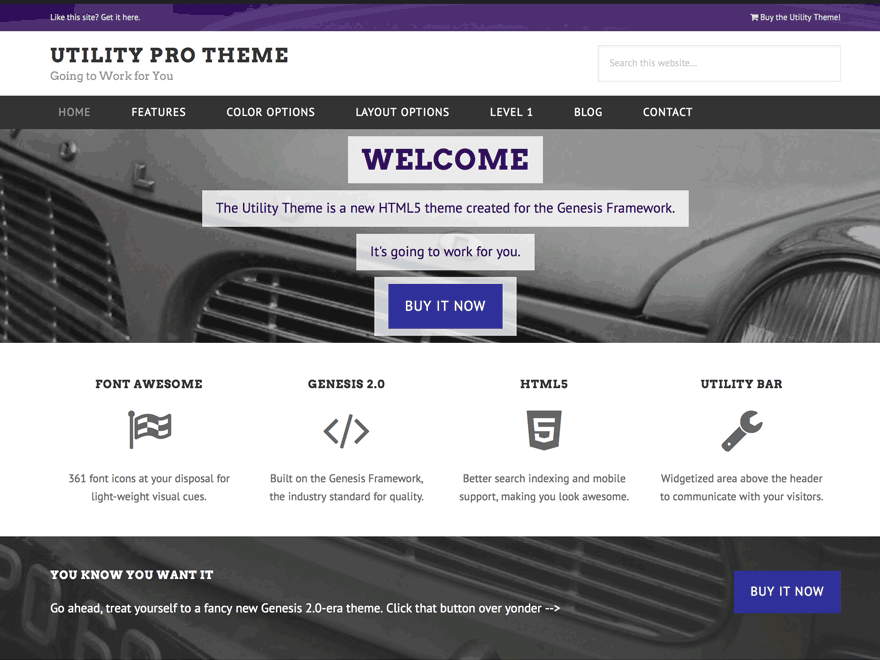
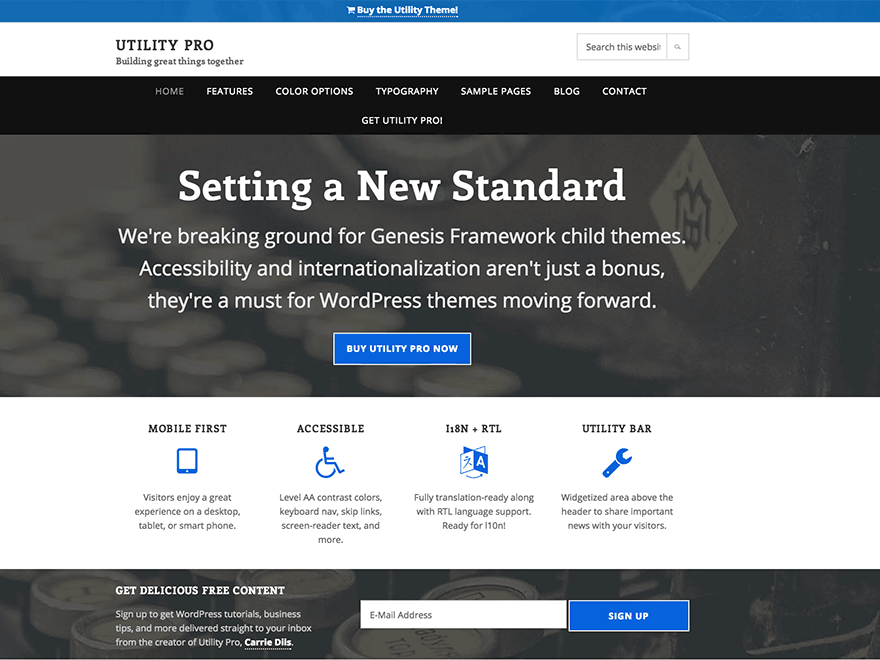
Fixed skip-link double ID issue. Style sheet cleanup. New screenshot

diff --git a/style-rtl.css b/style-rtl.css
@@ -323,11 +323,11 @@ blockquote::before {
     content: '\201C';
     display: block;
     font-family: 'Enriqueta', serif;
-    font-size: 140px;
+    font-size: 120px;
     height: 0;
-    right: -50px;
+    right: -55px;
     position: relative;
-    top: -60px;
+    top: -55px;
 }
 
 pre {
@@ -478,6 +478,19 @@ input[type='search']::-webkit-search-results-button {
 }
 
 .search-form input[type='submit'] {
+    background-color: transparent;
+    background: url("images/icon-search.png") no-repeat 14px 20px #fff;
+    border: 1px solid #ddd;
+    box-shadow: none;
+    height: 53px;
+    margin: 0;
+    overflow: hidden;
+    padding: 0 0 0 42px;
+    position: absolute;
+    left: 0;
+    text-indent: -9999px;
+    vertical-align: top;
+    width: 45px;
     -webkit-transition: none;
        -moz-transition: none;
         -ms-transition: none;
@@ -485,33 +498,11 @@ input[type='search']::-webkit-search-results-button {
             transition: none;
 }
 
-.search-form input[type='submit'] {
-    background-color: transparent;
-    background: url("images/icon-search.png") no-repeat 14px 20px #fff;
-    border: 1px solid #ddd;
-    height: 53px;
-    margin: 0;
-    overflow: hidden;
-    padding: 0;
-    position: absolute;
-    left: 0;
-    text-indent: -9999px;
-    vertical-align: top;
-    width: 45px;
-}
-
 .search-form input[type="submit"]:focus,
 .search-form input[type="submit"]:hover {
     background-color: #999;
 	background-position: 1px 20px;
 	text-indent: -9999px;
-}
-
-.search-form input[type="search"] {
-   	box-shadow: none;
-    height: 53px;
-    margin-bottom: 0;
-    padding-left: 55px;
 }
 
 /* Gallery
@@ -984,13 +975,13 @@ Plugins
 /* Better Font Awesome
 --------------------------------------------- */
 
-/*a > .fa {
+a > .fa {
     display: block;
 }
 
-.li a > .fa {
+li a .fa {
     display: inline-block;
-}*/
+}
 
 /* Genesis eNews Extended
 --------------------------------------------- */

diff --git a/style.css b/style.css
@@ -478,6 +478,19 @@ input[type='search']::-webkit-search-results-button {
 }
 
 .search-form input[type='submit'] {
+    background-color: transparent;
+    background: url("images/icon-search.png") no-repeat 14px 20px #fff;
+    border: 1px solid #ddd;
+    box-shadow: none;
+    height: 53px;
+    margin: 0;
+    overflow: hidden;
+    padding: 0 42px 0 0;
+    position: absolute;
+    right: 0;
+    text-indent: -9999px;
+    vertical-align: top;
+    width: 45px;
     -webkit-transition: none;
        -moz-transition: none;
         -ms-transition: none;
@@ -485,33 +498,11 @@ input[type='search']::-webkit-search-results-button {
             transition: none;
 }
 
-.search-form input[type='submit'] {
-    background-color: transparent;
-    background: url("images/icon-search.png") no-repeat 14px 20px #fff;
-    border: 1px solid #ddd;
-    height: 53px;
-    margin: 0;
-    overflow: hidden;
-    padding: 0;
-    position: absolute;
-    right: 0;
-    text-indent: -9999px;
-    vertical-align: top;
-    width: 45px;
-}
-
 .search-form input[type="submit"]:focus,
 .search-form input[type="submit"]:hover {
     background-color: #999;
 	background-position: 1px 20px;
 	text-indent: -9999px;
-}
-
-.search-form input[type="search"] {
-   	box-shadow: none;
-    height: 53px;
-    margin-bottom: 0;
-    padding-right: 55px;
 }
 
 /* Gallery

diff --git a/includes/vendors/genesis-accessible/skip-links.php b/includes/vendors/genesis-accessible/skip-links.php
@@ -6,14 +6,14 @@
 *	License: GPLv2 or later
 */
 
-add_action ( 'genesis_before_header', 'utility_skip_links', 5 );
+add_action ( 'genesis_before_header', 'utility_pro_skip_links', 5 );
 /**
  * Add skiplinks for screen readers and keyboard navigation
  *
  * @return [type] [description]
  * @since  1.0.0
  */
-function utility_skip_links() {
+function utility_pro_skip_links() {
 
     $site_layout = genesis_site_layout();
 
@@ -22,7 +22,6 @@ function utility_skip_links() {
 	$nav2 = false;
     $sidebar = false;
     $sidebar_alt = false;
-	$search = false;
 	$footer_widget = false;
 
    	//  navigation?
@@ -33,7 +32,6 @@ function utility_skip_links() {
     if ( $site_layout == 'sidebar-content' || $site_layout == 'content-sidebar' )  $sidebar = true;
 
 	// search widget?
-	if( is_active_widget( '', '', 'search' ) ) $search = true;
 
     // footer widgets?
     if ( current_theme_supports( 'genesis-footer-widgets' ) == '1' ) {
@@ -54,20 +52,17 @@ function utility_skip_links() {
 	echo '<ul class="wpacc-genesis-skip-link">' . "\n";
 
     if ( $nav )
-    	echo '  <li><a href="#wpacc-genesis-nav" class="screen-reader-shortcut">'. __( 'Jump to main navigation', 'utility-pro' ) .'</a></li>' . "\n";
-
-	if ( $search )
-		echo '  <li><a href="#searchform" class="screen-reader-shortcut">'. __( 'Jump to search', 'utility-pro' ) .'</a></li>' . "\n";
+    	echo '  <li><a href="#genwpacc-genesis-nav" class="screen-reader-shortcut">'. __( 'Jump to main navigation', 'utility-pro' ) .'</a></li>' . "\n";
 
 	if ( $nav2 )
-		echo '  <li><a href="#wpacc-genesis-nav" class="screen-reader-shortcut">'. __( 'Jump to sub navigation', 'utility-pro' ) .'</a></li>' . "\n";
-		echo '  <li><a href="#wpacc-genesis-content" class="screen-reader-shortcut">'. __( 'Jump to content', 'utility-pro' ) .'</a></li>' . "\n";
+		echo '  <li><a href="#genwpacc-genesis-nav" class="screen-reader-shortcut">'. __( 'Jump to sub navigation', 'utility-pro' ) .'</a></li>' . "\n";
+		echo '  <li><a href="#genwpacc-genesis-content" class="screen-reader-shortcut">'. __( 'Jump to content', 'utility-pro' ) .'</a></li>' . "\n";
 
 	if ( $sidebar )
-		echo '  <li><a href="#wpacc-sidebar-primary" class="screen-reader-shortcut">'. __( 'Jump to primary sidebar', 'utility-pro' ) .'</a></li>' . "\n";
+		echo '  <li><a href="#genwpacc-sidebar-primary" class="screen-reader-shortcut">'. __( 'Jump to primary sidebar', 'utility-pro' ) .'</a></li>' . "\n";
 
 	if ( $footer )
-		echo '  <li><a href="#wpacc-genesis-footer-widgets" class="screen-reader-shortcut">'. __( 'Jump to footer', 'utility-pro' ) .'</a></li>' . "\n";
+		echo '  <li><a href="#genwpacc-genesis-footer-widgets" class="screen-reader-shortcut">'. __( 'Jump to footer', 'utility-pro' ) .'</a></li>' . "\n";
 
 	echo '</ul>' . "\n";
 
@@ -98,7 +93,7 @@ function utility_skiplinks_markup() {
 // Add ID markup if primary nav is assigned to a menu area
 function utility_pro_genesis_attr_nav_primary( $attributes ) {
 	if ( has_nav_menu( 'primary' ) ) {
-		$attributes['id'] = 'wpacc-genesis-nav genwpacc-genesis-nav ';
+		$attributes['id'] = 'genwpacc-genesis-nav ';
 
 	}
 	return $attributes;
@@ -107,7 +102,7 @@ function utility_pro_genesis_attr_nav_primary( $attributes ) {
 // Add ID markup if secondary nav is assigned to a menu area
 function utility_pro_genesis_attr_nav_secondary( $attributes ) {
 	if ( has_nav_menu( 'secondary' ) ) {
-		$attributes['id'] = 'wpacc-genesis-secondary genwpacc-genesis-secondary';
+		$attributes['id'] = 'genwpacc-genesis-secondary';
 
 	}
 	return $attributes;
@@ -115,14 +110,14 @@ function utility_pro_genesis_attr_nav_secondary( $attributes ) {
 
 // Add ID markup to content area
 function utility_pro_genesis_attr_content( $attributes ) {
-	$attributes['id'] = 'wpacc-genesis-content genwpacc-genesis-content';
+	$attributes['id'] = 'genwpacc-genesis-content';
 	return $attributes;
 }
 
 // Add ID markup if the primary sidebar is active
 function utility_pro_genesis_attr_sidebar_primary( $attributes ) {
 	if ( is_active_sidebar( 'sidebar' ) ) {
-		$attributes['id'] = 'wpacc-sidebar-primary genwpacc-sidebar-primary';
+		$attributes['id'] = 'genwpacc-sidebar-primary';
 
 	}
 	return $attributes;
@@ -131,14 +126,14 @@ function utility_pro_genesis_attr_sidebar_primary( $attributes ) {
 // Add ID markup if the secondary sidebar is active
 function utility_pro_genesis_attr_sidebar_secondary( $attributes ) {
 	if ( is_active_sidebar( 'sidebar-alt' ) ) {
-		$attributes['id'] = 'wpacc-sidebar-secondary genwpacc-sidebar-secondary';
+		$attributes['id'] = 'genwpacc-sidebar-secondary';
 	}
 	return $attributes;
 }
 
 // Add ID markup if the footer widgets are active
 function genesis_attr_footer_widgets( $attributes ) {
-	$attributes['id'] = 'wpacc-genesis-footer-widgets genwpacc-genesis-footer-widgets';
+	$attributes['id'] = 'genwpacc-genesis-footer-widgets';
 	return $attributes;
 }
 

diff --git a/functions.php b/functions.php
@@ -93,6 +93,8 @@ function utility_pro_setup() {
 	if ( is_admin() ) {
 		// Plugins
 		include_once( get_stylesheet_directory() . '/includes/vendors/tgm-plugin-activation/suggested-plugins.php' );
+		// Theme Settings
+		include_once( get_stylesheet_directory() . '/helpers/theme-settings/theme-license.php' );
 	}
 }
 
@@ -161,7 +163,7 @@ function utility_pro_enqueue_assets() {
     // Load mobile responsive menu
 	wp_enqueue_script( 'utility-pro-responsive-menu', get_stylesheet_directory_uri() . '/helpers/js/responsive-menu.js', array( 'jquery' ), '1.0.0', true );
 
-	// Load dropdown menu keyboard nav (accessibility)
+	// Load script for keyboard navigation on dropdown menus (accessibility)
 	wp_enqueue_script( 'genwpacc-dropdown',  get_stylesheet_directory_uri() . '/includes/vendors/genesis-accessible/genwpacc-dropdown.js', array( 'jquery' ), false, true );
 
     // Replace style.css with style-rtl.css for RTL languages
@@ -175,8 +177,8 @@ wp_reset_query();
 		return;
 	}
 
-	wp_enqueue_script( 'utility-pro-backstretch', get_stylesheet_directory_uri() . "/helpers/js/backstretch.js", array( 'jquery' ), '2.0.1', true );
-	wp_enqueue_script( 'utility-pro-backstretch-args', get_stylesheet_directory_uri() . "/helpers/js/backstretch.args.js", array( 'utility-pro-backstretch' ), CHILD_THEME_VERSION, true );
+	wp_enqueue_script( 'utility-pro-backstretch', get_stylesheet_directory_uri() . '/helpers/js/backstretch.js', array( 'jquery' ), '2.0.1', true );
+	wp_enqueue_script( 'utility-pro-backstretch-args', get_stylesheet_directory_uri() . '/helpers/js/backstretch.args.js', array( 'utility-pro-backstretch' ), CHILD_THEME_VERSION, true );
 
 	wp_localize_script( 'utility-pro-backstretch-args', 'utilityL10n', array( 'src' => get_background_image() ) );
 }
@@ -245,8 +247,7 @@ add_filter( 'genesis_footer_creds_text', 'utility_pro_footer_creds' );
  */
 function utility_pro_footer_creds( $creds ) {
 
-	$creds = '[footer_copyright] &middot; <a href="https://store.carriedils.com/utility-pro">Utility Pro</a> &middot; Powered by the <a href="http://www.carriedils.com/go/genesis">Genesis Framework</a> and <a href="http://wordpress.org">WordPress</a>.';
-	return $creds;
+	return '[footer_copyright first="2015"] &middot; <a href="https://store.carriedils.com/utility-pro">Utility Pro</a> &middot; Powered by the <a href="http://www.carriedils.com/go/genesis">Genesis Framework</a> and <a href="http://wordpress.org">WordPress</a>.';
 }
 
 /**
